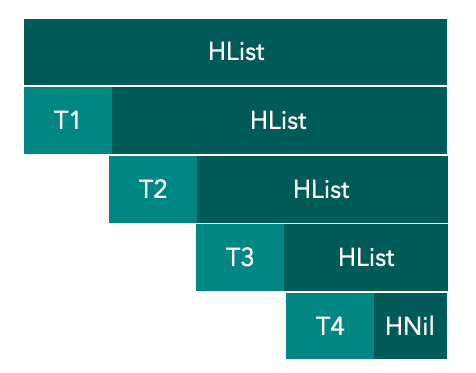
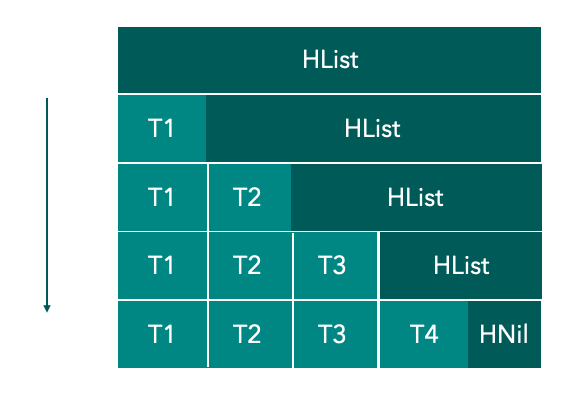
feat(typeclasses-3): update content

Changed region(s): [[0.0294, 0.0295, 0.9412, 0.9732], [0.5294, 0.2949, 0.7059, 0.3539], [0.6176, 0.4718, 0.7941, 0.5308]]

diff --git a/_articles/typeclasses-3/shapeless-and-type-class-deriving.md b/_articles/typeclasses-3/shapeless-and-type-class-deriving.md
@@ -56,7 +56,7 @@ implicit val productShow = new Show[Product] {
 
 
 
-当我们调用 Show 时，编译器就会为自动找到匹配的 Type class  实例传入
+当我们调用 Show 时，编译器就会自动找到匹配的 Type class  实例传入
 
 ```scala
 Show(User("Jack", 18, 50))
@@ -217,7 +217,7 @@ genericTest(Demo())  // Demo 转为了 HNil
 
 先来看看 HList 的结构，如下图所示，HList 的结构可以被递归的分解为 「头节点 + 尾列表」（递归结构），递归的终止条件就是尾列表为 HNil 时：
 
-![image-20200814143334403](img/hlist.png)
+![image-20200821085027952](img/hlist.png)
 
 用代码展示就是这样
 
@@ -235,7 +235,7 @@ HList(T1, HList(T2, HList(T3, HList(T4, HNil))))
 
 
 
-最后再来画一下我们期望编译器能做到的推导过程
+我们希望只要提供了以上 Type class 实例以后，编译器能按下图的方式自动推导（浅色的代表匹配到的 Type class 实例）
 
 ![image-20200813185729660](img/type-class-deriving-thinking.png)
 
@@ -243,7 +243,7 @@ HList(T1, HList(T2, HList(T3, HList(T4, HNil))))
 
 ## 实现
 
-Type class 的仍然使用最开始定义的 Show，这里重复列一下代码：
+我们以最开始提到的 Show 来进行实现
 
 ```scala
 trait Show[T] {
@@ -257,7 +257,7 @@ object Show {
 
 
 
-第一步自然是**实现一个可以处理 case class 类型的 Show 实例**，这里需要用到隐式方法（implicit def）。
+第一步自然是**生成一个可以处理 case class 类型的 Show 实例**，这里需要用到隐式方法（implicit def）。
 
 方法思路很简单，让编译器在隐式作用域找到  Generic.Aux 实例将 case class 转为 HList， 然后调用 HList 类型的 Show 实例将 HList 对象转为字符串。
 
@@ -275,9 +275,9 @@ implicit def caseClassShow[C, HL <: HList](implicit generic: Generic.Aux[C, HL],
 
 
 
-其实就是组合 Generic.Aux[C, HL] 和 Show[HList] 两个 Type class 实例，Generic.Aux 由框架提供了，那么 HList 的 Show 实例哪来呢？
+其实就是组合 Generic.Aux[C, HL] 和 Show[HList] 两个 Type class 实例。
 
-当然得我们自己实现了。
+Generic.Aux 由框架提供了，那么 HList 的 Show 实例哪来呢？当然得我们自己实现了。
 
 HList 有两个子类：`HNil` 和 `::` ，所以要实现两个 Type class 实例。
 
@@ -343,7 +343,7 @@ Show(jack) // 编译通过，输出：['jack', 18, 55.0d]
 
 
 
-通过下面的图再来看一下编译器的推导过程，其实很简单
+通过下面的图再来理解一下编译器的推导过程，其实很简单
 
 ![image-20200814154245138](img/deriving-infer.png) 
 
